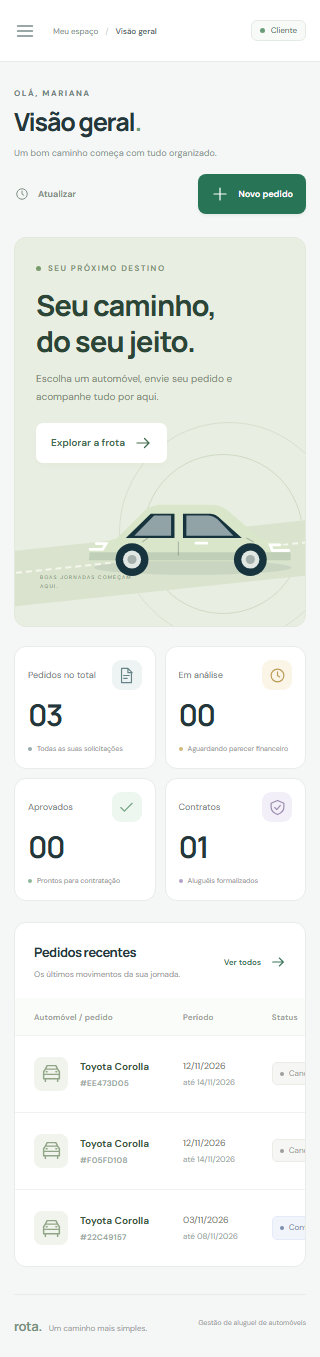
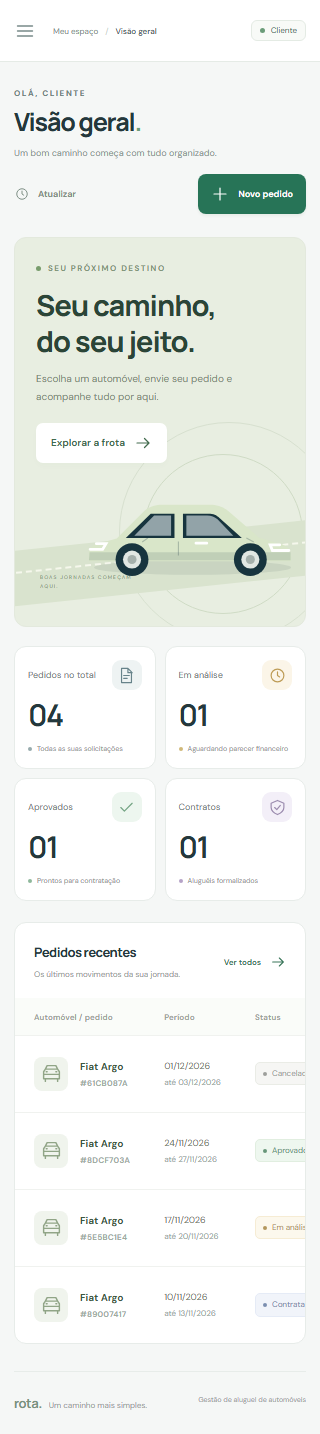
Atualiza prints da aplicacao

diff --git a/README.md b/README.md
@@ -250,7 +250,7 @@ docs/
 
 ## Contas de demonstração
 
-As contas abaixo foram preparadas na base Supabase utilizada para a apresentação, com dados fictícios e senha de teste publicada para avaliação do projeto.
+As contas abaixo foram preparadas na base Supabase utilizada para a apresentação, com dados fictícios e senha de teste publicada para avaliação do projeto. Os três acessos foram verificados em **3 de novembro de 2026**.
 
 | Papel | Usuário | Senha | O que avaliar |
 | --- | --- | --- | --- |
@@ -275,15 +275,52 @@ Siga o [roteiro de apresentação](docs/ROTEIRO-APRESENTACAO.md) para demonstrar
 
 Use os [logins de demonstração](#contas-de-demonstração) para acompanhar os fluxos com cada papel. As migrações não criam usuários; as contas para apresentação são preparadas pelos próprios fluxos de cadastro, com dados de teste.
 
-As capturas abaixo mostram a aplicação conectada à API Java em um ambiente isolado de testes, com dados fictícios cadastrados pela interface. Não representam um banco Supabase já configurado.
+### Cenários preparados para avaliação
 
-| Login | Painel do cliente |
+Na base de apresentação, o cliente `cliente.teste` possui quatro pedidos identificados como **“Demonstração para o professor”**. O automóvel é um **Fiat Argo 2025**, com diária de **R$ 150,00**, matrícula `TESTE-001` e placa `TST1A23`.
+
+| Período de aluguel | Estado preparado | Fluxo disponível |
+| --- | --- | --- |
+| 10 a 13/11/2026 | Contratado | Consultar contrato com crédito de R$ 450,00, taxa de 1,5% e três parcelas, concedido pelo banco de demonstração |
+| 17 a 20/11/2026 | Em análise | Cliente ou agente pode editar; agente pode emitir o parecer financeiro |
+| 24 a 27/11/2026 | Aprovado | Agente pode executar o contrato; editar o pedido exige nova análise |
+| 1 a 3/12/2026 | Cancelado | Consultar o histórico de cancelamento |
+
+Os estados acima representam a preparação de **3 de novembro de 2026**. As ações realizadas durante a avaliação alteram esses registros.
+
+### Galeria da aplicação
+
+As **12 capturas**, realizadas em **3 de novembro de 2026**, mostram a aplicação em execução normal: React, API Java e **PostgreSQL real no Supabase**, com dados fictícios cadastrados pelos fluxos da aplicação. Clique em qualquer imagem ou em **Abrir imagem** para visualizar a captura completa.
+
+| Login | Cadastro de cliente |
 | --- | --- |
-| ![Tela de login](docs/images/login.png) | ![Painel do cliente com pedidos e contrato](docs/images/dashboard.png) |
-| Pedidos do agente | Contrato com crédito |
-| ![Pedidos e status de contratação](docs/images/pedidos.png) | ![Contrato com propriedade e crédito do banco](docs/images/contrato.png) |
+| <a href="docs/images/login.png"><img src="docs/images/login.png" alt="Tela de login com os campos de usuário e senha" width="430"></a> | <a href="docs/images/cadastro.png"><img src="docs/images/cadastro.png" alt="Formulário de cadastro com identificação e rendimentos do cliente" width="430"></a> |
+| Acesso com usuário e senha para os três papéis. [Abrir imagem](docs/images/login.png) | Identificação, profissão e vínculos empregatícios. [Abrir imagem](docs/images/cadastro.png) |
 
-Veja também a [interface em uma tela de 320 px](docs/images/mobile.png).
+| Painel do cliente | Frota de automóveis |
+| --- | --- |
+| <a href="docs/images/dashboard.png"><img src="docs/images/dashboard.png" alt="Painel do cliente com resumo dos pedidos e contratos" width="430"></a> | <a href="docs/images/frota.png"><img src="docs/images/frota.png" alt="Frota com automóvel, diária, matrícula e placa" width="430"></a> |
+| Resumo dos pedidos, status e contratos do cliente. [Abrir imagem](docs/images/dashboard.png) | Consulta de automóveis e acesso à solicitação de aluguel. [Abrir imagem](docs/images/frota.png) |
+
+| Pedidos de aluguel | Novo pedido |
+| --- | --- |
+| <a href="docs/images/pedidos.png"><img src="docs/images/pedidos.png" alt="Lista de pedidos com os estados contratado, em análise, aprovado e cancelado" width="430"></a> | <a href="docs/images/novo-pedido.png"><img src="docs/images/novo-pedido.png" alt="Formulário para escolher automóvel e período de aluguel" width="430"></a> |
+| Acompanhamento dos períodos e estados das solicitações. [Abrir imagem](docs/images/pedidos.png) | Escolha do automóvel, datas, observações e estimativa de valor. [Abrir imagem](docs/images/novo-pedido.png) |
+
+| Avaliação financeira | Clientes do sistema |
+| --- | --- |
+| <a href="docs/images/avaliacao.png"><img src="docs/images/avaliacao.png" alt="Formulário do agente para aprovar ou rejeitar pedido e registrar justificativa" width="430"></a> | <a href="docs/images/clientes.png"><img src="docs/images/clientes.png" alt="Lista de clientes disponível aos agentes com documentos, profissão e renda" width="430"></a> |
+| Parecer do agente com aprovação ou rejeição e justificativa. [Abrir imagem](docs/images/avaliacao.png) | Consulta e edição dos dados usados na análise. [Abrir imagem](docs/images/clientes.png) |
+
+| Cadastro do cliente | Contratos de aluguel |
+| --- | --- |
+| <a href="docs/images/perfil.png"><img src="docs/images/perfil.png" alt="Perfil do cliente com dados pessoais e rendimentos cadastrados" width="430"></a> | <a href="docs/images/contratos.png"><img src="docs/images/contratos.png" alt="Listagem dos contratos de aluguel formalizados" width="430"></a> |
+| Dados pessoais, vínculos e ações de manutenção do cadastro. [Abrir imagem](docs/images/perfil.png) | Consulta dos aluguéis formalizados após aprovação. [Abrir imagem](docs/images/contratos.png) |
+
+| Detalhes do contrato com crédito | Interface em celular |
+| --- | --- |
+| <a href="docs/images/contrato.png"><img src="docs/images/contrato.png" alt="Contrato com proprietário, banco concedente, valor do crédito, taxa e parcelas" width="430"></a> | <a href="docs/images/mobile.png"><img src="docs/images/mobile.png" alt="Painel do cliente adaptado a uma tela de 320 pixels" width="220"></a> |
+| Propriedade registrada e condições do crédito concedido pelo banco. [Abrir imagem](docs/images/contrato.png) | Navegação e conteúdo adaptados à largura de 320 px. [Abrir imagem](docs/images/mobile.png) |
 
 ## Testes
 

diff --git a/docs/ROTEIRO-APRESENTACAO.md b/docs/ROTEIRO-APRESENTACAO.md
@@ -10,6 +10,19 @@
 
 Para apresentar também o cadastro e a exclusão, prepare um cliente adicional com documento de teste válido e distinto. Preserve os acessos de demonstração para o professor repetir os fluxos. Se for usado um novo projeto Supabase, cadastre primeiro as contas conforme [Primeiro uso](../README.md#primeiro-uso); as migrações não geram esses usuários.
 
+## Acesso rápido aos cenários preparados
+
+As contas de demonstração foram verificadas em **3 de novembro de 2026**, na execução normal com PostgreSQL no Supabase. Entre como `cliente.teste` para localizar quatro pedidos com a observação **“Demonstração para o professor”**, referentes ao Fiat Argo 2025, matrícula `TESTE-001`, placa `TST1A23` e diária de R$ 150,00:
+
+| Período | Estado preparado | Demonstração |
+| --- | --- | --- |
+| 10 a 13/11/2026 | Contratado | Consultar o contrato e o crédito de R$ 450,00, taxa de 1,5% e três parcelas |
+| 17 a 20/11/2026 | Em análise | Editar o pedido ou entrar como agente e emitir um parecer |
+| 24 a 27/11/2026 | Aprovado | Entrar como empresa/banco e executar o contrato |
+| 1 a 3/12/2026 | Cancelado | Mostrar o histórico de cancelamento |
+
+Use **Sair da conta** para alternar entre cliente, empresa e banco. O pedido em análise e o aprovado estão disponíveis para testar as próximas etapas; executar essas ações muda os estados preparados. As [12 capturas no README](../README.md#galeria-da-aplicação) registram a aplicação e os dados dessa preparação.
+
 ## Demonstração sugerida
 
 | Etapa | Ação | O que comprova |
